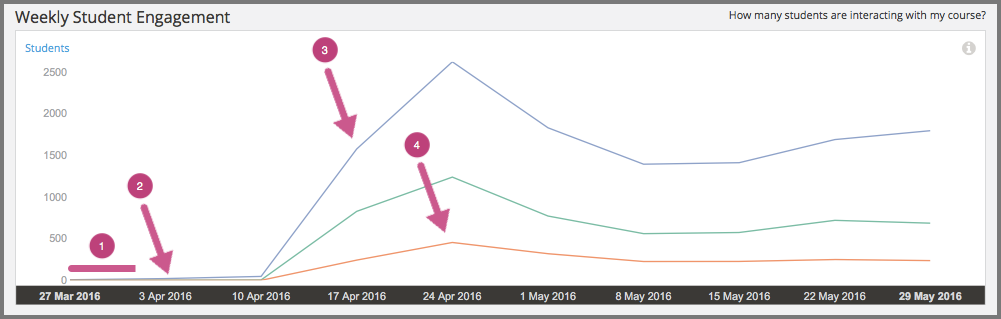
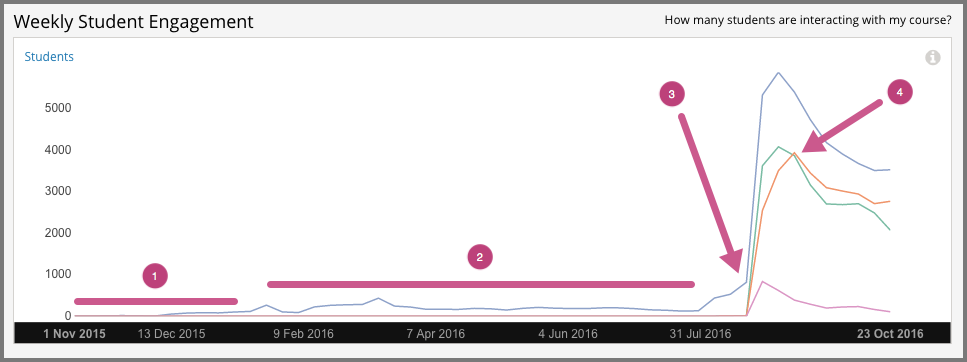
Engagement with Course Discussions

diff --git a/docs/en_us/dashboard/source/engagement/Engagement_Content.rst b/docs/en_us/dashboard/source/engagement/Engagement_Content.rst
@@ -28,12 +28,18 @@ Weekly Student Engagement Chart
 ======================================
 
 The markers on this chart represent the number of unique students who
-interacted with course content. The graph plots three categories of engagement:
-an overall total for students who completed any type of course activity, and
-totals for students who played any course video and for students who submitted
-an answer for a problem. Each total is for activity completed within a one week
-period. To see the total count for each activity type for a given week, move
-your cursor over the chart to display a tooltip.
+interacted with course content. The graph plots the following categories of
+engagement.
+
+* The count of students who completed any type of course activity.
+* The count of students who played any course video.
+* The count of students who submitted an answer for a problem.
+* The count of students who added a post, response, or comment to the
+  course discussion.
+
+Each total is for activity completed within a one week period. To see the total
+count for each activity type for a given week, move your cursor over the chart
+to display a tooltip.
 
 Activity is included beginning with the week in which the first page visit took
 place. The first page visit is typically by a member of the course team
@@ -51,8 +57,8 @@ provide context for the data that is shown.
 #. Course development on edx.org, a period when engagement levels were low in
    all three categories.
 
-#. The beginning of the beta test, when a slight increase in all of the
-   engagement categories can be detected.
+#. Beta testing, when a slight increase in all of the engagement categories can
+   be detected, and ongoing course development.
 
 #. The course start date, when the number of active students increased
    significantly.
@@ -60,12 +66,12 @@ provide context for the data that is shown.
 #. The due date of the first homework, when the number of students who tried a
    problem increased.
 
-The second example is for a small, private online course. The tooltip shows the
-number of students engaging in different activities on the same day that the
-final homework was due.
+The second example is for the edX Demo course. This self-paced course runs
+continuously. The tooltip shows the number of students engaging in different
+activities in a high volume week.
 
-.. image:: ../images/engagement_chart_SPOC.png
- :alt: A graph with almost immediate activity in all three measures.
+.. image:: ../images/engagement_chart.png
+ :alt: A graph with immediate and constant activity in all measures.
 
 ======================================
 Active Students Last Week Metric
@@ -90,6 +96,13 @@ problem during the last complete one week period. Not all problem types are
 included in this count; see :ref:`Engagement Computations`.
 
 ======================================
+Participated in Discussions Last Week
+======================================
+
+The number and percentage of students who added a post, response, or comment to
+the course discussion during the last complete one week period.
+
+======================================
 Content Engagement Breakdown Report
 ======================================
 
@@ -109,6 +122,7 @@ columns.
 * interval_end (shows the ending date of the one-week period)
 * interval_start (shows the beginning date of the one-week period)
 * played_video
+* posted_forum
 
 See the :ref:`Reference` chapter for a detailed description of each value.
 
@@ -132,7 +146,7 @@ An Immediate Appeal, then Ongoing Encouragement
 ==================================================
 
 To set expectations and encourage a minimum time commitment, one professor
-included a one-minute video message in the very first course component.
+included a one-minute video message as the very first course component.
 Speaking directly to the camera, the professor acknowledged that the material
 could be daunting. He then made a very specific request: that students complete
 not only the first homework assignment, but the entire first month of the
@@ -155,7 +169,7 @@ contributions that they make to the learning environment.
   discussions.
 
 * Another professor gave special attention to student questions. He updated the
-  **Course Info** page regularly with questions taken from the discussions. He
+  course  **Home** page regularly with questions taken from the discussions. He
   followed each question by thanking the student and giving a direct and
   in-depth answer.
 
@@ -178,4 +192,3 @@ email messages are usually sent less frequently, and may have longer content.
 By comparing the levels of student engagement week over week, or from run to
 run, you can make comparisons to evaluate your strategy.
 
-.. Patrick ok'd 9/24/14

diff --git a/docs/en_us/dashboard/source/Reference.rst b/docs/en_us/dashboard/source/Reference.rst
@@ -363,6 +363,13 @@ For information about viewing engagement metrics in edX Insights, see
 
 * This value is also expressed as a percentage of currently enrolled students.
 
+**Participated in Discussions Last Week metric**
+
+* The number of unique users who added a post, response, or comment to any
+  topic in the course discussion.
+
+* This value is also expressed as a percentage of currently enrolled students.
+
 **Weekly Student Engagement graph**
 
 * The markers on the graph represent the number of users who interacted with
